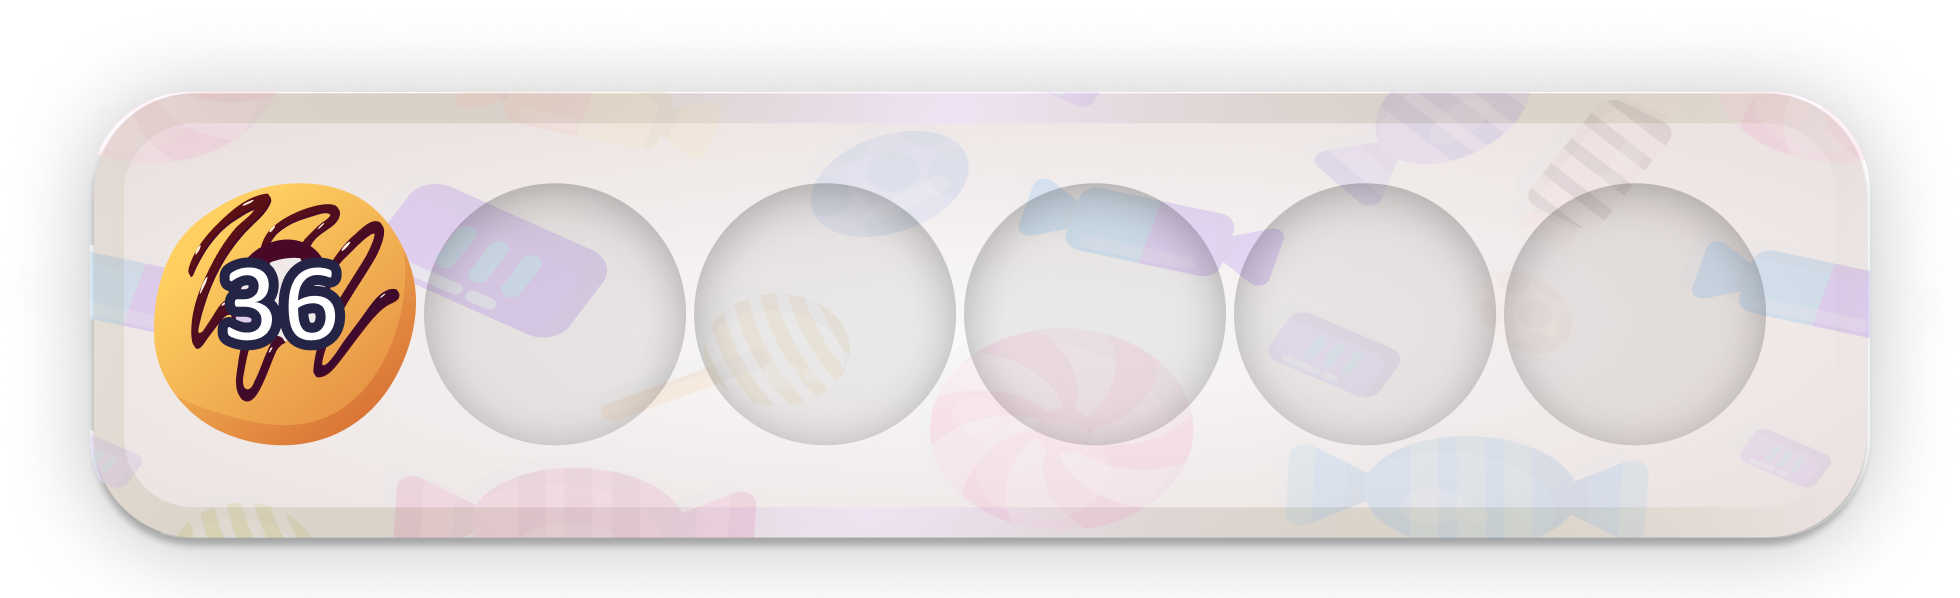
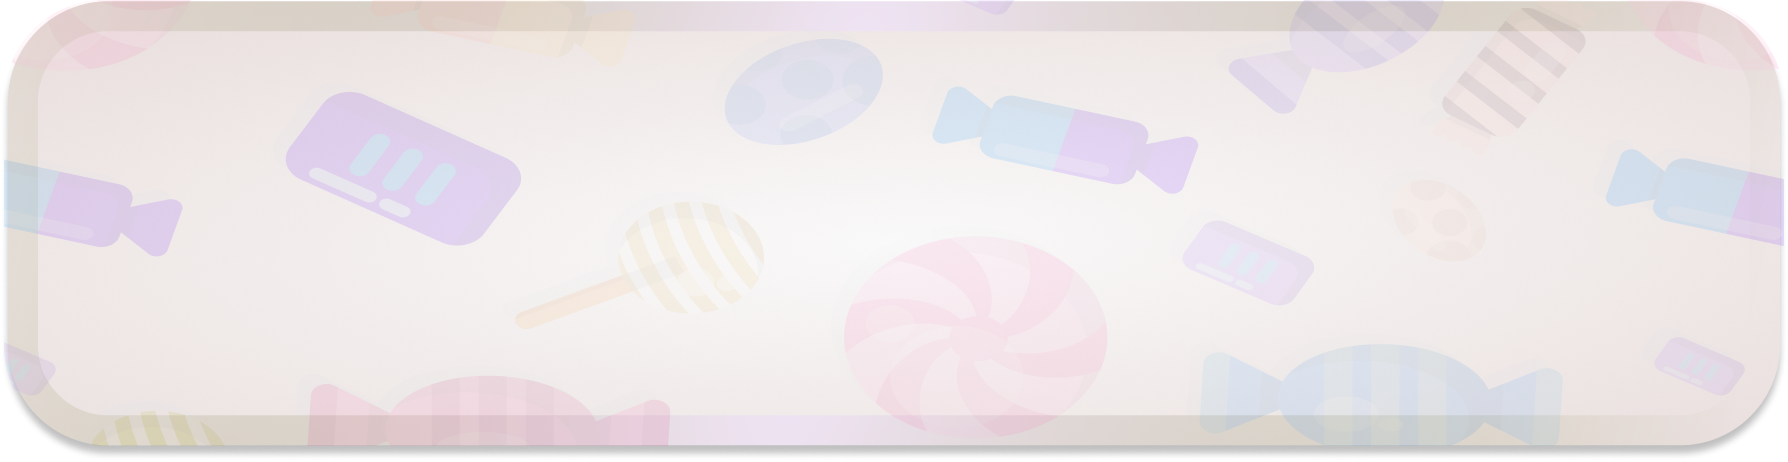
feat: add dynamically count of placers depending of amount

diff --git a/pages/game.tsx b/pages/game.tsx
@@ -3,12 +3,19 @@ import assets from '../constants/assets'
 import Item from '../components/Item'
 import { GameContext } from '../context/context'
 import styled from '@emotion/styled'
+import PanelStyled from '../components/Panel/Panel'
 
 const GameField = styled.div`
   display: flex;
 `
 
 const Game = () => {
+  const [theme, setTheme] = useState(0);
+  const [itemValues, setItemValues] = useState([]);
+
+  const gameContext = useContext(GameContext);
+  const {amount, ranges} = gameContext;
+  
   const getRandomArray = (amount, ranges) => {
     const valSet = new Set();
     while(valSet.size < amount) {
@@ -16,22 +23,21 @@ const Game = () => {
     }
     return Array.from(valSet);
   }
-
-  const [theme, setTheme] = useState(0);
-  const gameContext = useContext(GameContext);
-  const [itemValues, setItemValues] = useState([]);
-
-
+  
   useEffect(() => {
-    setItemValues(getRandomArray(gameContext.amount, gameContext.ranges))
+    setItemValues(getRandomArray(amount, ranges))
     return setTheme(Math.floor(Math.random() * (assets.length)))
   }, [])
+  
   return (
-    <GameField>
-      {itemValues.map((val, ind) => {
-        return <Item theme={theme} className='item' key={ind}>{val}</Item>
-      })}
-    </GameField>
+    <>
+      <GameField>
+        {itemValues.map((val, ind) => {
+          return <Item theme={theme} className='item' key={ind}>{val}</Item>
+        })}
+      </GameField>
+      <PanelStyled theme={theme} amount={amount} className='panel'/>
+    </>
   )
 }
 

diff --git a/components/Panel/Panel.tsx b/components/Panel/Panel.tsx
@@ -1,0 +1,35 @@
+import styled from '@emotion/styled'
+import React, { useEffect, useState } from 'react'
+import assets from '../../constants/assets'
+import Placer from './Placer'
+
+const Panel = ({className, theme, amount}) => {
+  const [placers, setPlacers] = useState([]);
+  useEffect(() => {
+    const plArr = [];
+    for(let i = 0; i < amount; i++) {
+      plArr.push(<Placer/>);
+    }
+    setPlacers(plArr);
+  }, [])
+  return (
+    <div className={className}>
+      {
+        placers
+      }
+    </div>
+    )
+  }
+  
+const PanelStyled = styled(Panel)`
+  display: flex;
+  justify-content: space-around;
+  align-items: center;
+  width: 890px;
+  height: 223px;
+  background-image: url(/${props => assets[props.theme].name}/panel.png);
+  background-size: contain;
+  background-repeat: no-repeat;
+  background-position: center;
+`
+export default PanelStyled;

diff --git a/components/Panel/Placer.tsx b/components/Panel/Placer.tsx
@@ -1,0 +1,10 @@
+import styled from '@emotion/styled'
+const Placer = styled.div`
+  width: 130px;
+  height: 130px;
+  background: url(/placer.png);
+  background-size: contain;
+  background-repeat: no-repeat;
+  background-position: center;
+`
+export default Placer;
